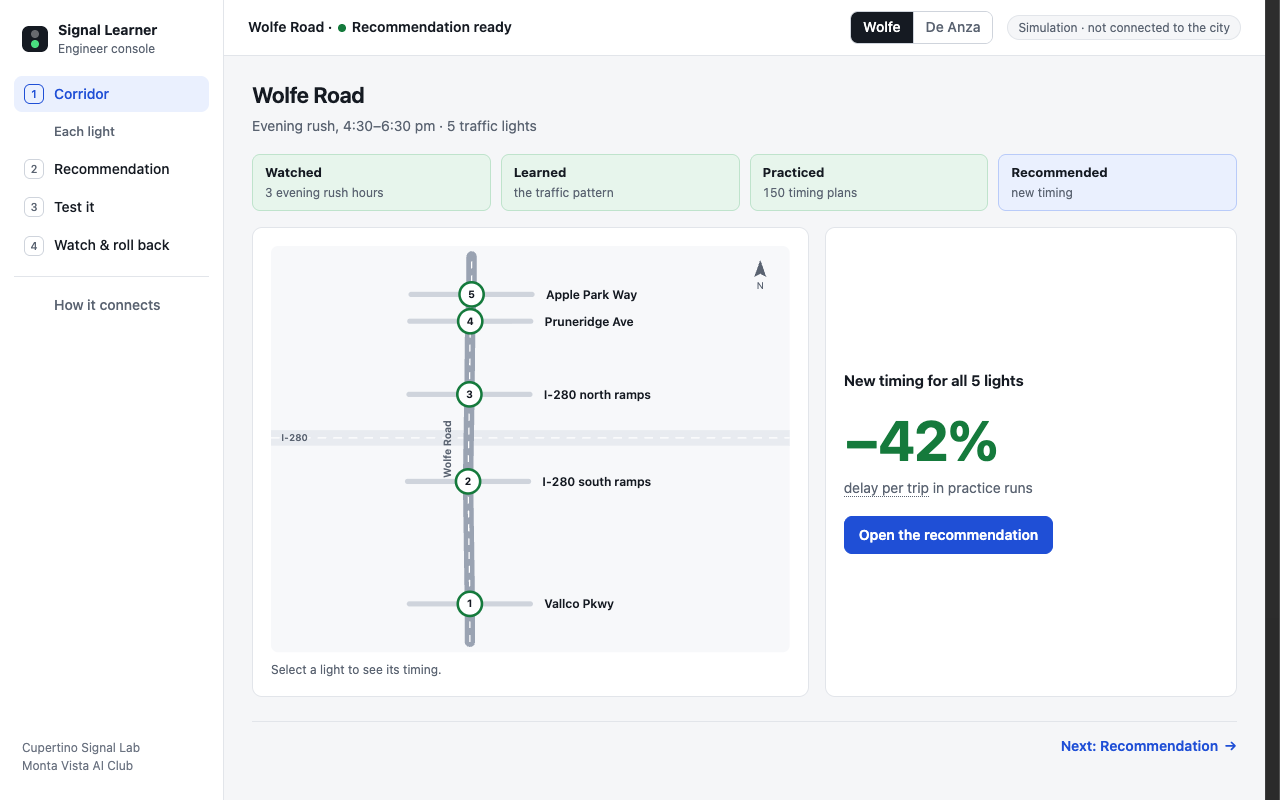
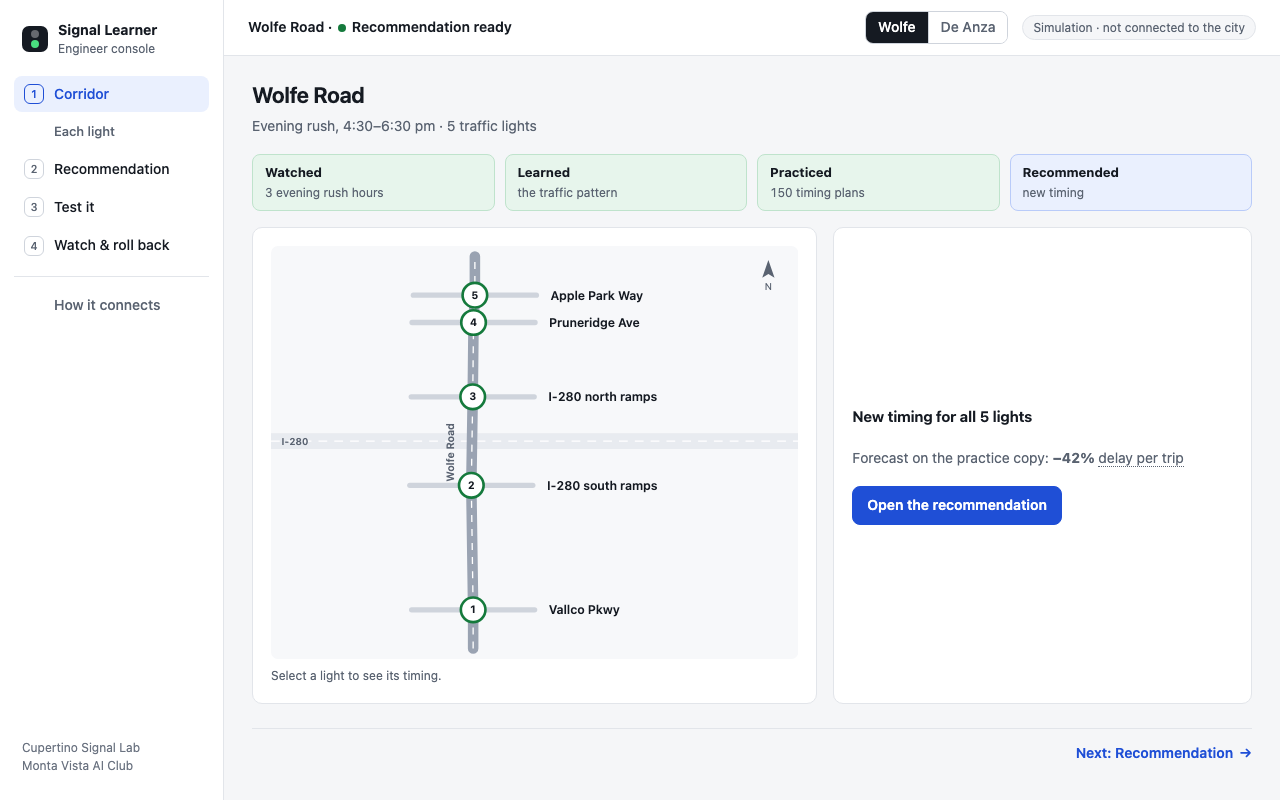
Clarify console forecasts and simulated city workflow

diff --git a/dashboard/console/console.js b/dashboard/console/console.js
@@ -211,8 +211,7 @@ function corridor(d) {
   const changed = sigs.filter(s => s.reason !== 'no material change').length;
   const lead = isChange(d)
     ? `<h2>New timing for ${changed === sigs.length ? `all ${sigs.length}` : `${changed} of ${sigs.length}`} lights</h2>
-      <div class="big-stat">${signed(e.change_share * 100, 0)}%</div>
-      <p class="muted">${tip('delay per trip', T_SCORE)} in practice runs</p>`
+      <p class="muted">Forecast on the practice copy: <b>${signed(e.change_share * 100, 0)}%</b> ${tip('delay per trip', T_SCORE)}</p>`
     : `<h2>Keep the current timing</h2><p class="muted">The best new plan caused jams in practice runs, so nothing changes.</p>`;
   return `
   <div class="head"><div><h1>${esc(d.info.street)}</h1><p>Evening rush, ${peak(d.info)} · ${lights(sigs.length)}</p></div></div>
@@ -365,7 +364,7 @@ function recommendation(d) {
   <div class="grid g2" style="margin:16px 0">
     <div class="card stack"><h2>What changes</h2><p>${plain}</p>
       <p class="small muted">Stays the same: phase order, yellow, all-red, minimum greens.</p></div>
-    <div class="card stack"><h2>Expected effect</h2>
+    <div class="card stack"><h2>Forecast (practice copy)</h2>
       <div class="effect"><span class="big">${f1(e.old_delay_s)} s<span class="arrow">→</span>${f1(e.new_delay_s)} s</span><span class="delta">${signed(e.change_share * 100)}%</span></div>
       <p class="small muted">${tip('Delay per trip', T_SCORE)} over ${e.copy_seeds.length} practice rush hours.</p>
       ${more('Details', `<p class="small">Range across practice runs: ${signed(e.change_range_s[0])} to ${signed(e.change_range_s[1])} s per trip. Practice runs use a simulated road built only from sensor counts.</p>
@@ -546,7 +545,7 @@ function goBackTable(d) {
 
 function watch(d) {
   const head = `<div class="head"><div><h1>Watch &amp; roll back</h1><p>Go back to the old timing if traffic is clearly worse for ${RULE.windows * 5} minutes in a row.</p></div></div>`;
-  const fullRule = more('How this works', `<p class="small">Every 5 minutes the console reads the road sensors. A 5-minute window counts as worse when the sensors run above their normal range,
+  const fullRule = more('How this works', `<p class="small">This demo replays saved simulated sensor readings in 5-minute windows. A window counts as worse when the sensors run above their normal range,
     when ${RULE.approaches} or more directions rise over ${RULE.approachRise} points, or when cars served fall more than ${RULE.countDrop * 100}% below normal.
     ${RULE.windows} worse windows in a row trigger the roll-back.</p>`);
   if (!isChange(d) || decision(d).status !== 'approved') {
@@ -611,11 +610,11 @@ function connect() {
     ${arrow(880, 330, 975, 152, { color: '#1f4fd6' })}<text x="935" y="262" style="fill:#1f4fd6">card</text>
   </svg>`;
   return `
-  <div class="head"><div><h1>How it connects</h1><p>Our software only reads. The engineer decides and enters any change.</p></div></div>
+  <div class="head"><div><h1>How it connects</h1><p>Example city workflow below. This demo uses saved simulation files, with no city connection.</p></div></div>
   <div class="card" style="margin-bottom:16px">${svg}</div>
   <div class="path3" style="margin-bottom:16px">
     <div class="card stack"><h2><span class="n">1</span>Read</h2><p class="small">Counts, ${tip('controller logs', 'High-resolution logs: every signal and sensor event, to the nearest 0.1 s.')} and timing sheets, requested from the city.<sup>[2]</sup></p></div>
-    <div class="card stack"><h2><span class="n">2</span>Recommend</h2><p class="small">The engineer reviews the card and enters any change. Google's Project Green Light works the same way.<sup>[6]</sup></p></div>
+    <div class="card stack"><h2><span class="n">2</span>Recommend</h2><p class="small">The engineer reviews the card and enters any change. Google's Project Green Light also gives city engineers recommendations.<sup>[6]</sup></p></div>
     <div class="card stack later"><h2><span class="n">3</span>Much later</h2><p class="small">A direct link to the central system, only with city approval and a safety review.<sup>[7]</sup></p></div>
   </div>
   <div class="card stack"><h2>Good to know</h2>

diff --git a/dashboard/console/console.css b/dashboard/console/console.css
@@ -80,7 +80,6 @@ main { padding: 24px 28px 40px; max-width: 1120px; width: 100%; outline: none; }
 .h-lg { font-size: 20px; }
 .lead { display: flex; flex-direction: column; justify-content: center; }
 .lead .actions { margin-top: 18px; }
-.big-stat { font-size: 56px; font-weight: 700; letter-spacing: -0.03em; line-height: 1; color: var(--ok); margin-top: 14px; }
 .map-hint { margin-top: 8px; }
 .next { display: flex; justify-content: flex-end; align-items: center; gap: 6px; margin-top: 24px; padding-top: 14px; border-top: 1px solid var(--line); font-weight: 600; text-decoration: none; }
 .next:hover { text-decoration: underline; }
